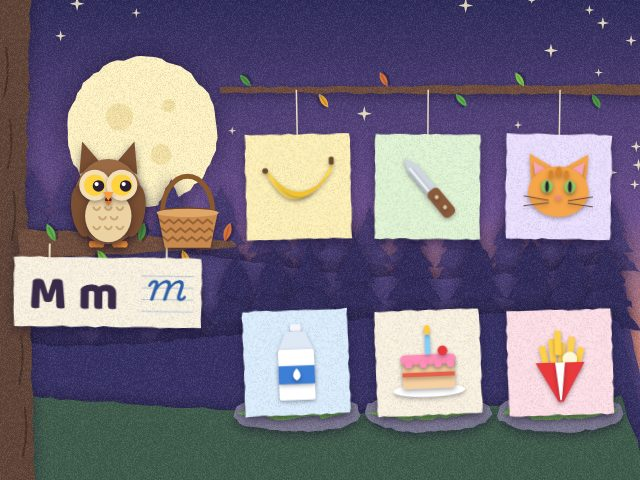
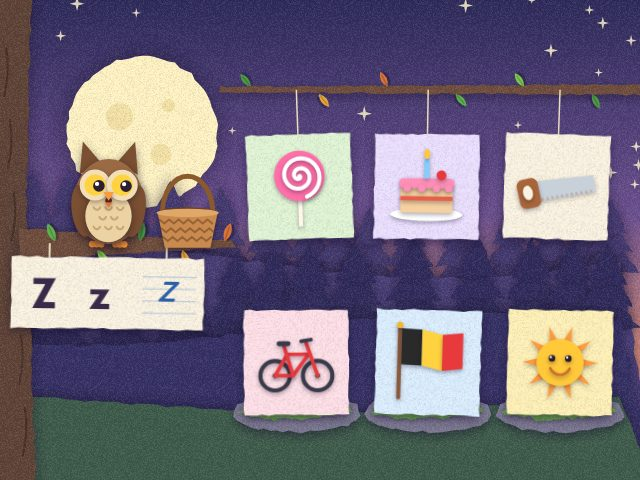
Klankenjacht: Teachers font on the letter sign, pronunciation fixes
Print letters on the sign use Teachers (embedded in the hub). Card words
are spoken a bit slower, and a SAY table gives words the voice gets
wrong a spoken spelling (naald -> naaald).

diff --git a/games/klankenjacht.html b/games/klankenjacht.html
@@ -6,7 +6,7 @@
 <title>Klankenjacht</title>
 <link rel="preconnect" href="https://fonts.googleapis.com">
 <link rel="preconnect" href="https://fonts.gstatic.com" crossorigin>
-<link href="https://fonts.googleapis.com/css2?family=Baloo+2:wght@700;800&family=Playwrite+BE+VLG&display=swap" rel="stylesheet">
+<link href="https://fonts.googleapis.com/css2?family=Baloo+2:wght@700;800&family=Playwrite+BE+VLG&family=Teachers:wght@700&display=swap" rel="stylesheet">
 <style>
 /* Layout: one full-screen canvas (a paper forest at dusk: the owl on its branch, 6 picture cards on strings and mossy stones); listen button by the owl, sound button top-right; title card on top */
 :root{
@@ -71,6 +71,9 @@ const SOUNDS=[
   {k:'t', hold:false, words:['tent','tomaat','taart']},
   {k:'b', hold:false, words:['bal','boot','boom','banaan']},
 ];
+// How the voice should say a word, only for words it gets wrong (the card and the sign keep the real spelling).
+// A doubled vowel often helps: 'naaald' makes the voice hold the long aa.
+const SAY={naald:'naaald'};
 const HOLD_ROUNDS=8;                                     // rounds with only holdable sounds before k, p, t, b join
 const LOOKALIKE={v:'f',f:'v',s:'z',z:'s',p:'b',b:'p'};  // sounds that are too close to mix in one round
 
@@ -602,7 +605,8 @@ function newRound(){
   need=n; found=0; basket.items=[]; phase='enter'; pt=0; signT=0; signImg=makeSign();
 }
 // speech engines can't say a sound on its own ("mmm" comes out as letter names), so the owl uses a whole example word
-function intro(){ signBump=0.6; say('Ik zoek woorden die beginnen zoals '+example+'... '+example+'!',0.85); }
+const spoken=w=>SAY[w]||w;
+function intro(){ signBump=0.6; say('Ik zoek woorden die beginnen zoals '+spoken(example)+'... '+spoken(example)+'!',0.85); }
 function repeat(){ if(phase==='play'||phase==='enter'){ owl.hoot=0.35; intro(); } }
 function start(){
   if(started) return; started=true; titleEl.classList.add('gone'); ac(); startAmb();
@@ -613,10 +617,10 @@ function tapCard(k){
   lookAt(k.x,k.y); SFX.rustle();
   if(k.ok){
     const p=cardPose(k); k.fx=p.x; k.fy=p.y; k.st='fly'; k.ft=0;
-    say(k.word+'!'); sparkles(k.x,k.y,8,0.7);
+    say(spoken(k.word)+'!',0.8); sparkles(k.x,k.y,8,0.7);
   } else {
     k.wig=0.9; owl.tilt=1; SFX.wobble(); leafPuff(k.x,k.y-S*0.4,3);
-    say(k.word+'... nee, dat begint niet zoals '+example+'.',0.85);
+    say(spoken(k.word)+'... nee, dat begint niet zoals '+spoken(example)+'.',0.85);
   }
 }
 const FLY=0.9;
@@ -674,8 +678,9 @@ function drawCards(flying){
   }
 }
 /* ---------- letter sign ----------
-   capital, small letter and the script letter children learn to write in Flemish schools (Playwrite BE VLG) */
-const SCRIPT='"Playwrite BE VLG",cursive', ROUND='"Baloo 2","Comic Sans MS",system-ui,sans-serif';
+   capital and small letter in Teachers (a font made for learning to read), and the script letter
+   children learn to write in Flemish schools (Playwrite BE VLG) */
+const SCRIPT='"Playwrite BE VLG",cursive', PRINT='"Teachers","Baloo 2",system-ui,sans-serif';
 let signImg=null, signT=9, signBump=0;
 function makeSign(){
   const pad=12, cg=document.createElement('canvas'); cg.width=Math.ceil((signW+pad*2)*DPR); cg.height=Math.ceil((signH+pad*2)*DPR);
@@ -688,14 +693,14 @@ function makeSign(){
   g.strokeStyle='rgba(61,127,214,0.35)'; g.lineWidth=Math.max(1,signH*0.012);
   for(const y of [base-xh*2,base-xh,base,base+xh]){ g.beginPath(); g.moveTo(lx,y); g.lineTo(lx+lw,y); g.stroke(); }
   g.textAlign='center'; g.textBaseline='alphabetic';
-  g.fillStyle='#3a2a4a'; g.font='800 '+Math.round(signH*0.7)+'px '+ROUND;
-  g.fillText(cur.k.toUpperCase(),signW*0.18,signH*0.74); g.fillText(cur.k,signW*0.45,signH*0.74);
+  g.fillStyle='#3a2a4a'; g.font='700 '+Math.round(signH*0.62)+'px '+PRINT;
+  g.fillText(cur.k.toUpperCase(),signW*0.17,signH*0.72); g.fillText(cur.k,signW*0.46,signH*0.72);
   g.fillStyle='#2d5fa8'; g.font='400 '+Math.round(xh*3.3)+'px '+SCRIPT;
   g.fillText(cur.k,lx+lw/2,base);
   g=c; return cg;
 }
 // the script font may arrive after the first sign was drawn: redraw it then
-if(document.fonts&&document.fonts.load) Promise.all([document.fonts.load('400 40px "Playwrite BE VLG"'),document.fonts.load('800 40px "Baloo 2"')]).then(()=>{ if(cur) signImg=makeSign(); }).catch(()=>{});
+if(document.fonts&&document.fonts.load) Promise.all([document.fonts.load('400 40px "Playwrite BE VLG"'),document.fonts.load('700 40px "Teachers"')]).then(()=>{ if(cur) signImg=makeSign(); }).catch(()=>{});
 function drawSign(){
   if(!signImg||phase==='title') return;
   const e=clamp(signT/0.5,0,1), b=e-1, sy=RM?1:1+2.7*b*b*b+1.7*b*b;

diff --git a/hub/build.py b/hub/build.py
@@ -19,7 +19,7 @@ def font(family, weight, file):
     return ("@font-face{font-family:'%s';font-style:normal;font-weight:%s;font-display:swap;"
             "src:url(data:font/woff2;base64,%s) format('woff2')}" % (family, weight, b64))
 font_css = (font('Baloo 2', '700 800', 'baloo2-latin.woff2') + font('Press Start 2P', '400', 'pressstart2p-latin.woff2')
-            + font('Playwrite BE VLG', '400', 'playwritebevlg.woff2'))
+            + font('Playwrite BE VLG', '400', 'playwritebevlg.woff2') + font('Teachers', '700', 'teachers-latin.woff2'))
 google_fonts = re.compile(r'<link[^>]*fonts\.(?:googleapis|gstatic)\.com[^>]*>\s*')
 
 data = []

diff --git a/README.md b/README.md
@@ -16,13 +16,13 @@ Small browser games for the kids, bundled in one menu page.
   - `plasticsoep-opruimer.html` – a yellow submarine-garbage-truck swims up with each tap and gobbles up floating plastic with its mechanical mouth; the sea turns clear blue and fills with fish and coral as the count rises
   - `fruit-fabriek.html` – counting game: tap to drop fruit from a machine into the box on the conveyor belt until it matches the number, then press the green button (Dutch counting voice); after a run of right boxes, small sums and subtractions (up to 10) appear on the boxes; buttons top-right turn the voice and the sums off (remembered on the device)
   - `vogelnestje.html` – the bird follows your finger: fly twigs to the nest, sit on the eggs until they hatch, pull worms out of molehills to feed the chicks; then they fly away and a new nest starts in the next season
-  - `klankenjacht.html` – first sounds (beginklank): in a paper forest at dusk, an owl says an example word ("Ik zoek woorden die beginnen zoals maan") while a sign under its branch shows the letter (capital, small and school script), and you tap the 2-3 picture cards that start with the same sound; holdable sounds (m, s, v, r, l, f, n, z) first, then k, p, t, b. Words and sounds are in the `SOUNDS` table at the top of the file
+  - `klankenjacht.html` – first sounds (beginklank): in a paper forest at dusk, an owl says an example word ("Ik zoek woorden die beginnen zoals maan") while a sign under its branch shows the letter (capital, small and school script); a `SAY` table fixes words the voice mispronounces, and you tap the 2-3 picture cards that start with the same sound; holdable sounds (m, s, v, r, l, f, n, z) first, then k, p, t, b. Words and sounds are in the `SOUNDS` table at the top of the file
 - `hub/speelhoek.template.html` – the menu page; `__FONT_CSS__` and `__GAMES__` are replaced by the build
 - `hub/build.py` – bundles every game (plus covers and embedded fonts) into the web app in `site/`
 - `hub/covers.js` – takes a cover screenshot of each game (needs Node + Playwright: `npm install`)
 - `hub/icons.js` – renders the home-screen icons into `hub/icons/`
 - `hub/sw.js`, `hub/manifest.webmanifest` – service worker and manifest that make it an installable offline app
-- `hub/fonts/` – Baloo 2, Press Start 2P and Playwrite BE VLG (Flemish school script) (SIL Open Font License, see the OFL files)
+- `hub/fonts/` – Baloo 2, Press Start 2P, Teachers and Playwrite BE VLG (Flemish school script) (SIL Open Font License, see the OFL files)
 - `hub/covers/` – the current cover images
 - `.github/workflows/pages.yml` – builds and publishes `site/` to GitHub Pages on every push to `main`
 - `docs/game-ideas.md` – game ideas and prompts
